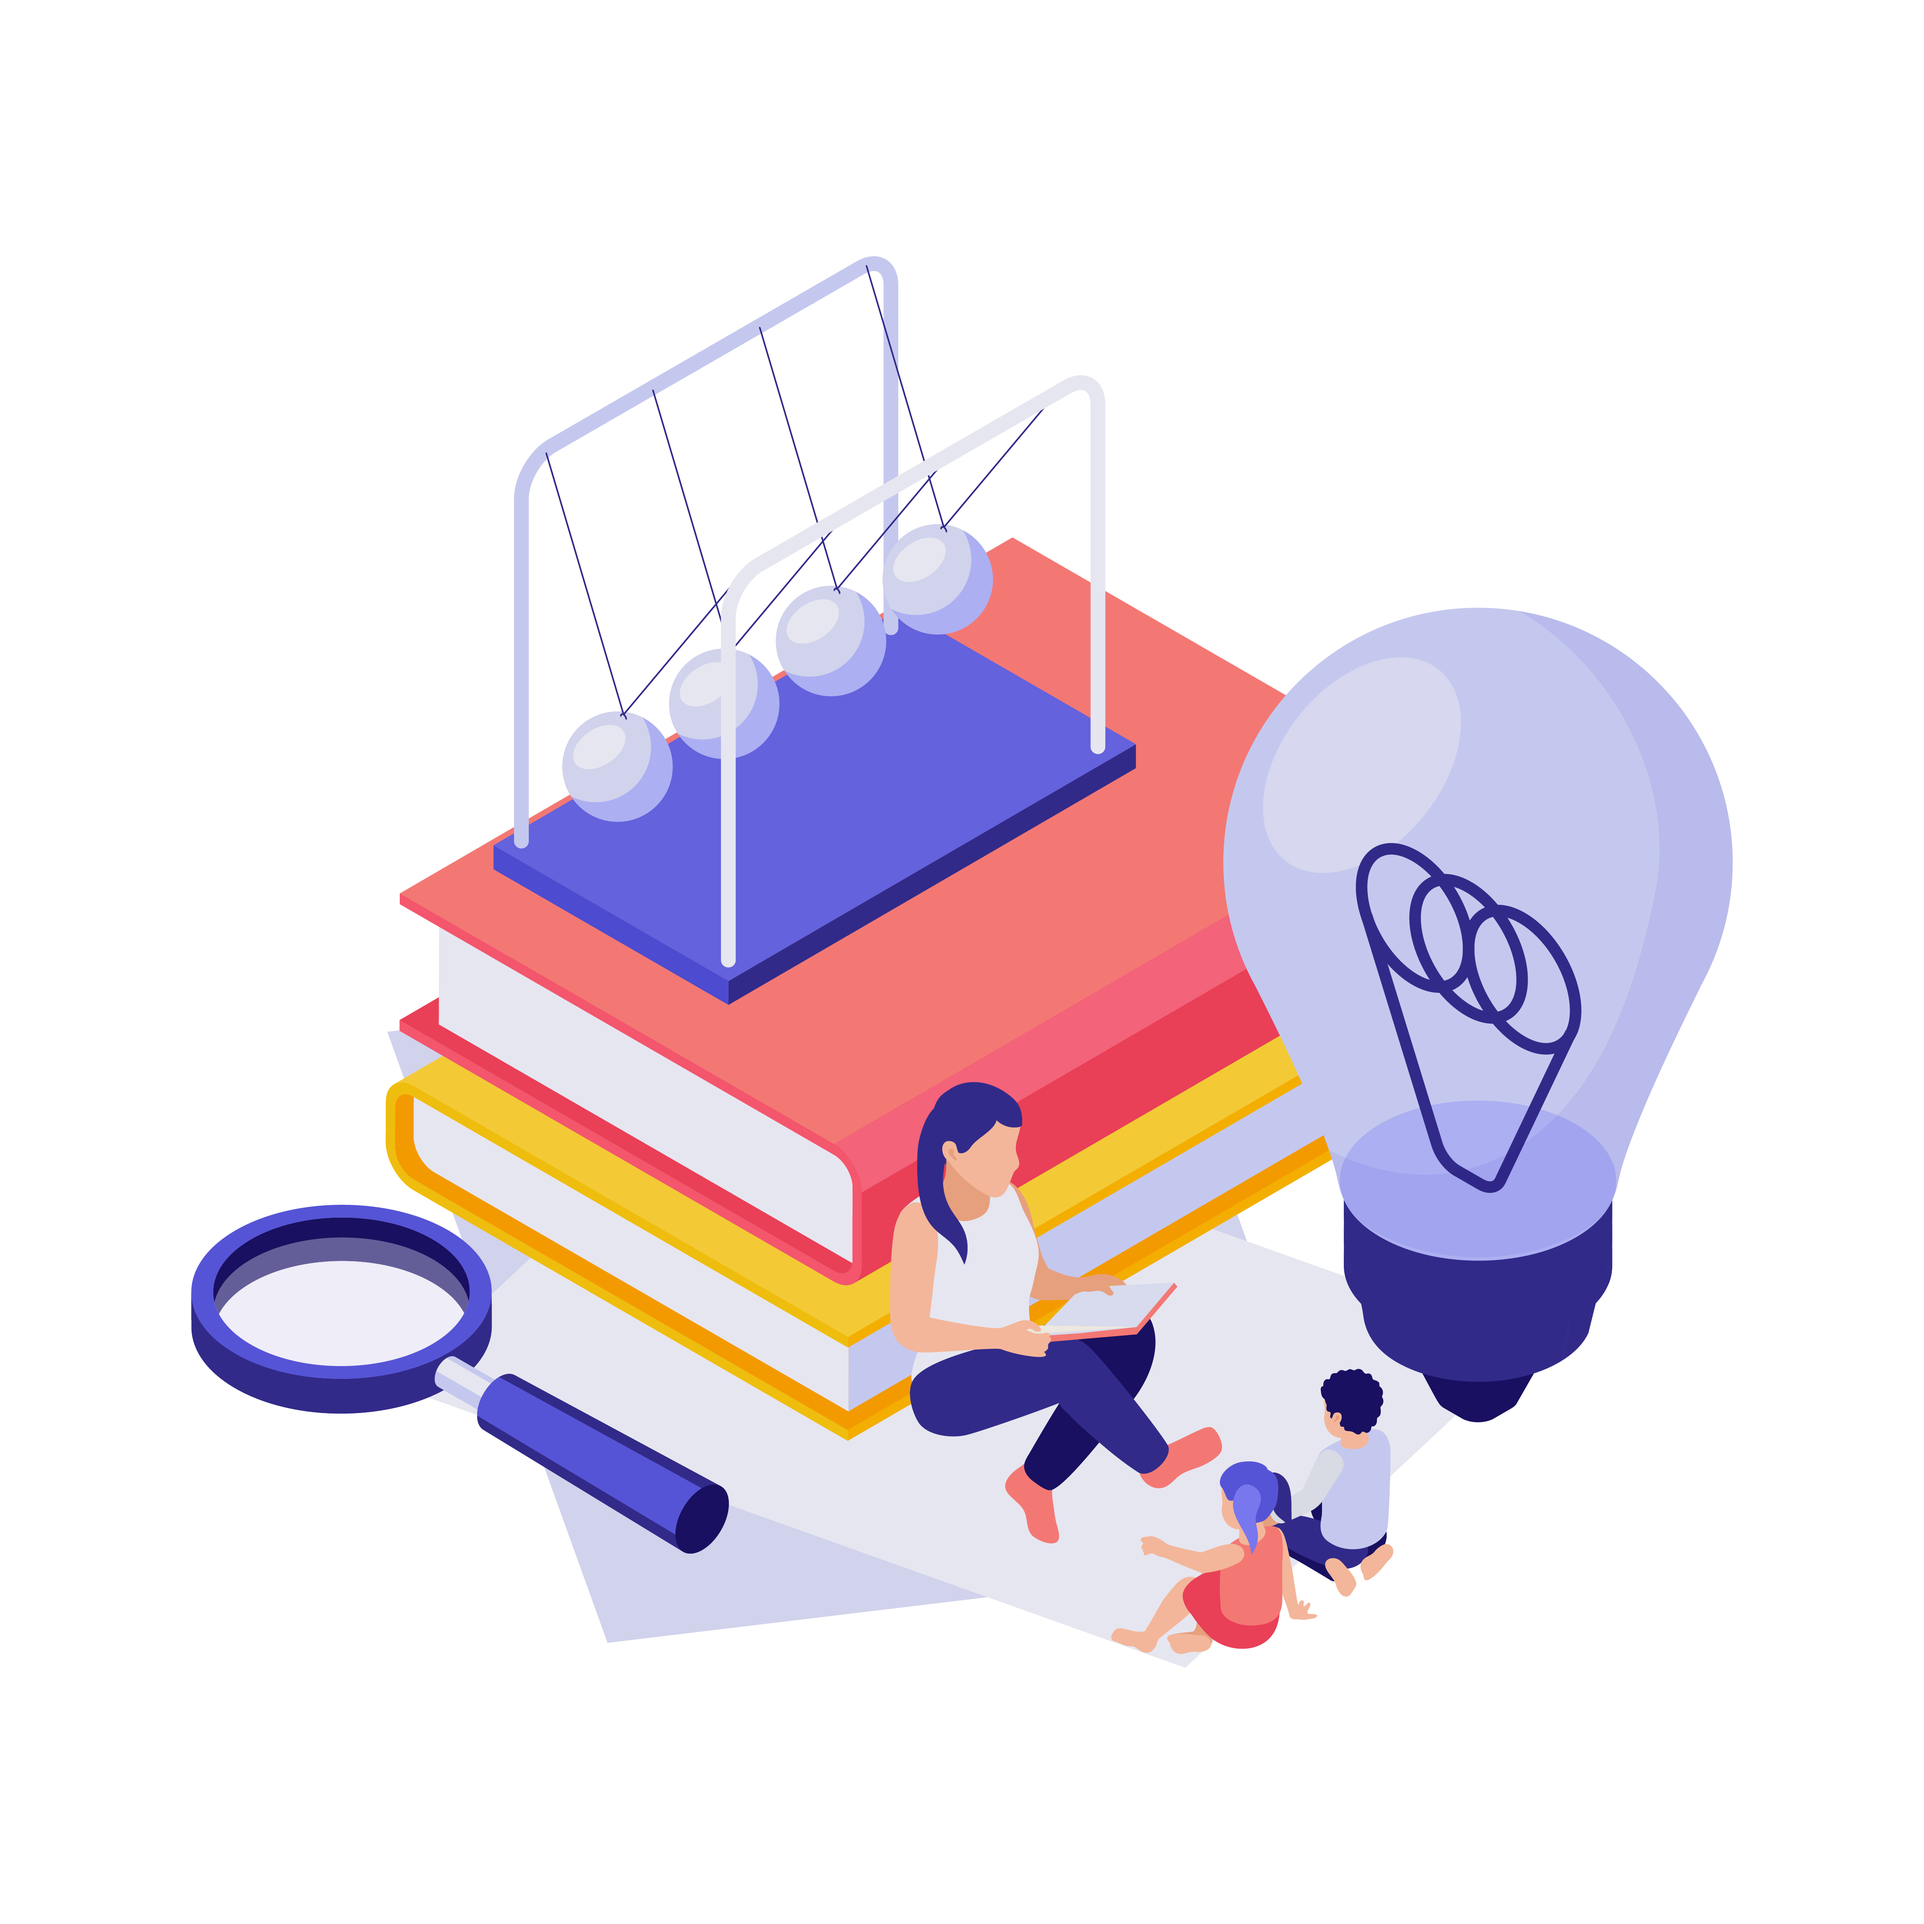
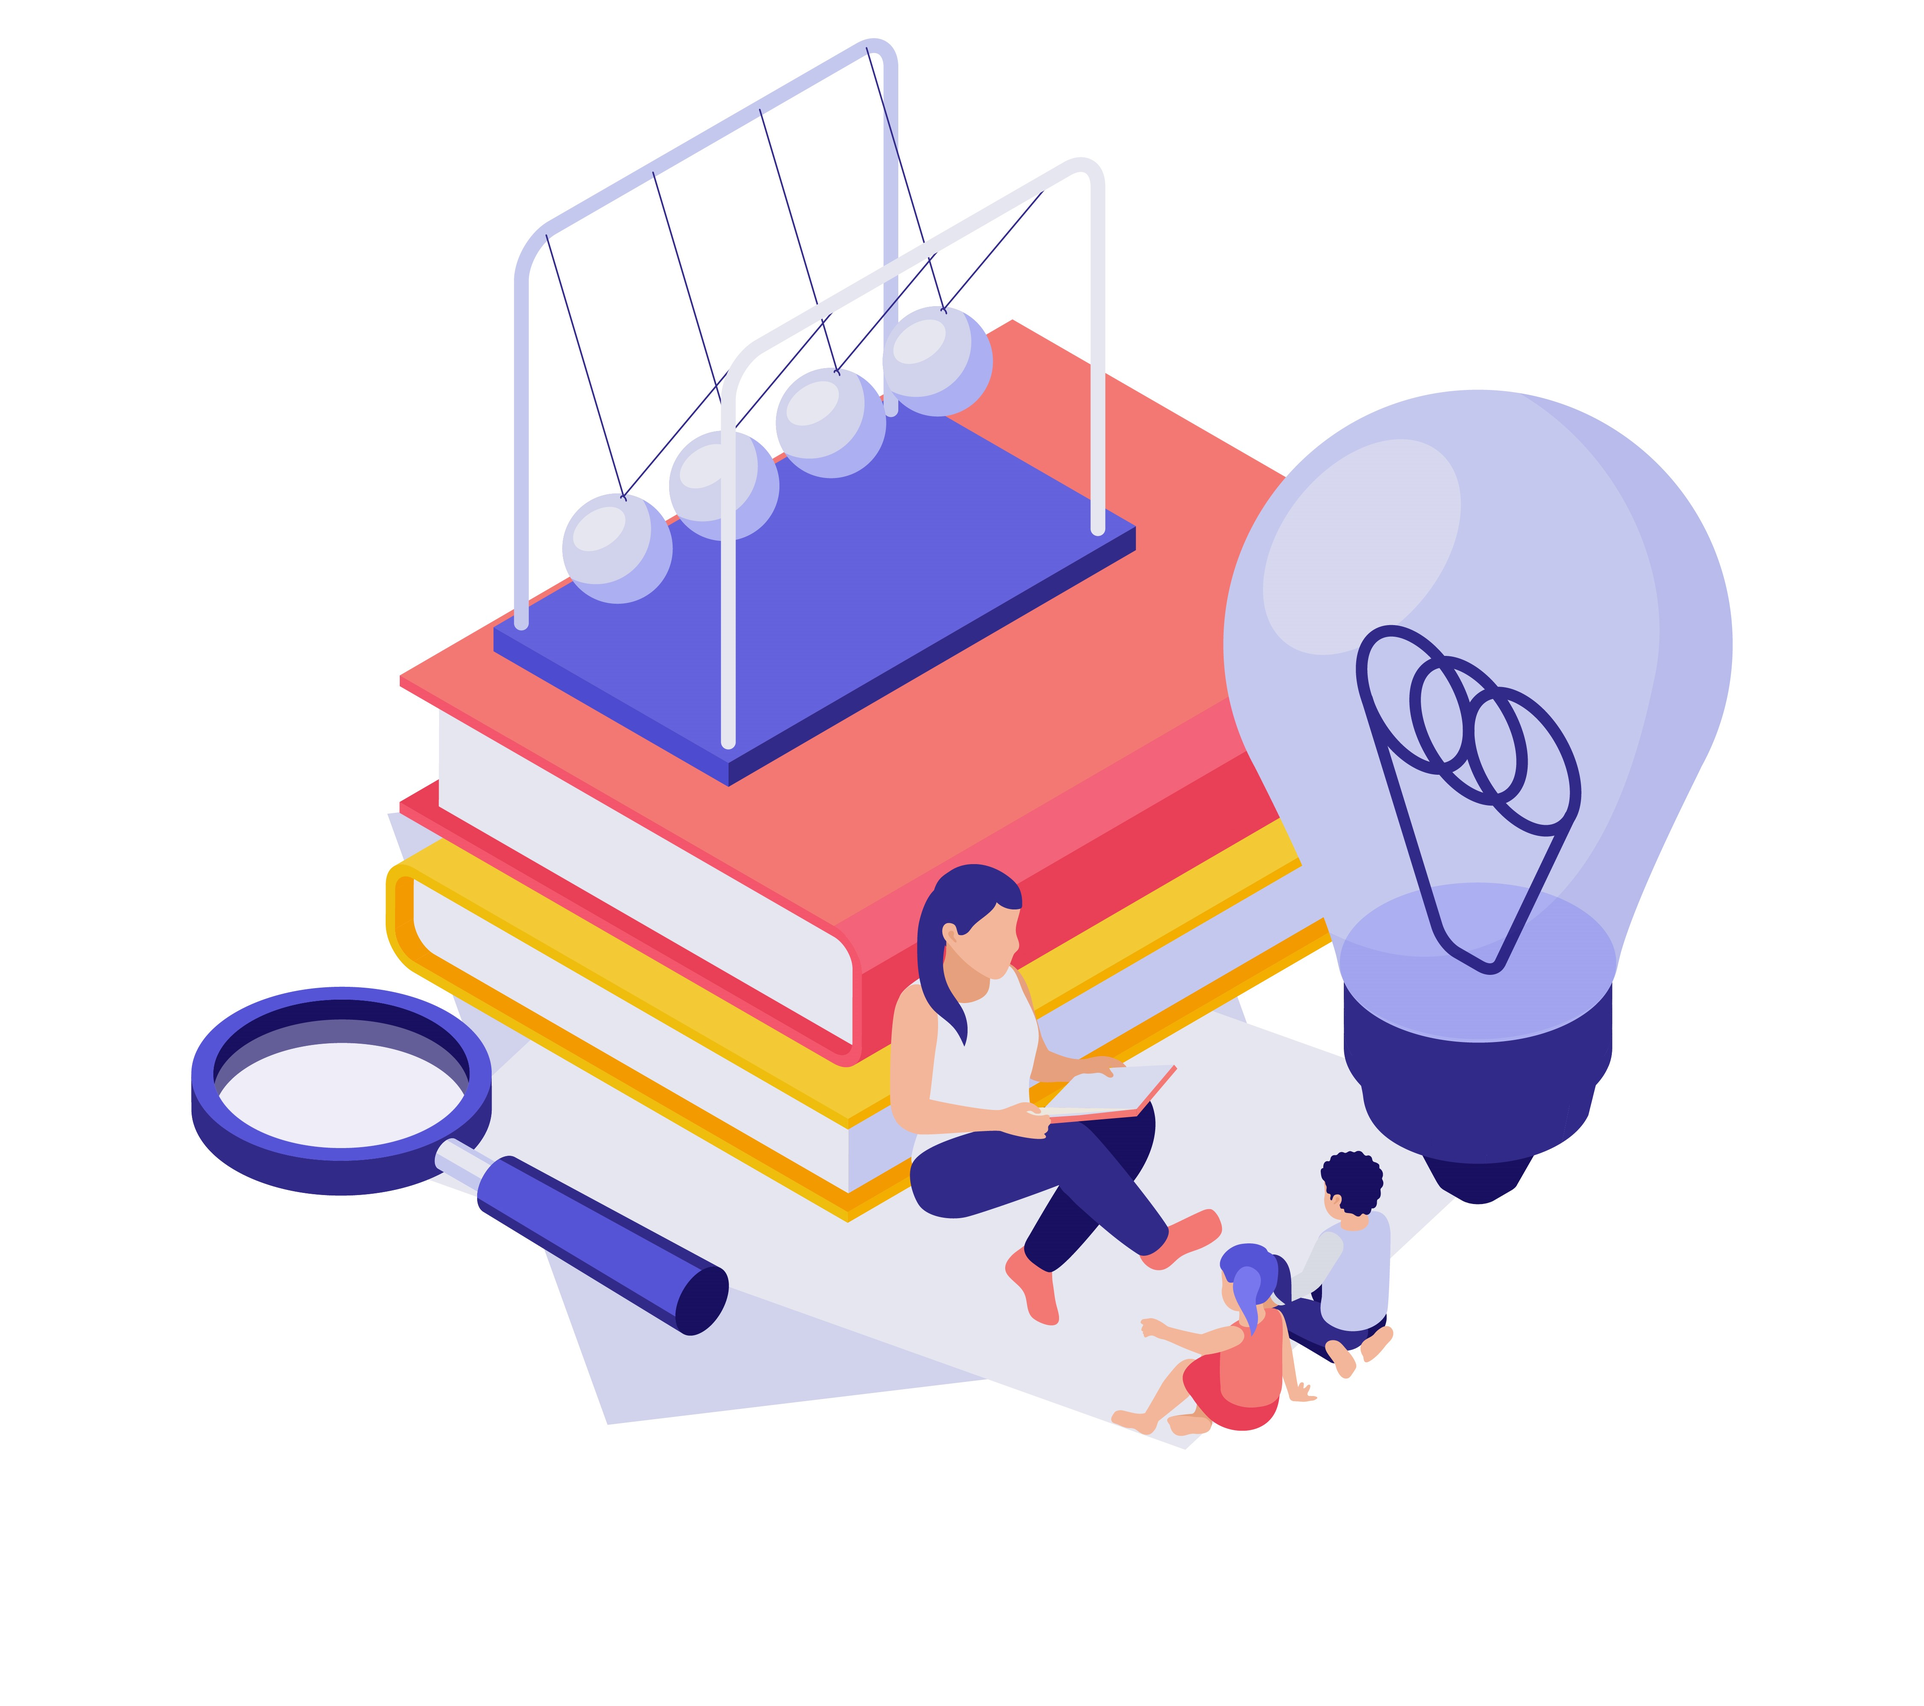
one more book and some cosmetic changes

Changed region(s): [[0.0933, 0.0, 0.9022, 0.8702], [0.2489, 0.0932, 0.3422, 0.2486], [0.3422, 0.0622, 0.4044, 0.0932]]

diff --git a/front_end/src/data/books.js b/front_end/src/data/books.js
@@ -1,5 +1,6 @@
 import interestingTimesPoster from '../posters/interesting-times.jpg';
 import mortPoster from '../posters/mort.jpg';
+import winnetouPoster from '../posters/winnetou.jpg';
 
 const books = [
     {
@@ -10,7 +11,7 @@ const books = [
       isbn: '0575058005',
       publishing_year: 1995,
       language: 3,
-      print_length: 236,
+      print_length: 353,
       poster: interestingTimesPoster,
     },
     {
@@ -24,6 +25,17 @@ const books = [
         print_length: 136,
         poster: mortPoster,
     },
+    {
+      title: 'Winnetou',
+      author: 'Karl May',
+      genre: 2,
+      age_recommendation: 12,
+      isbn: '0575000000',
+      publishing_year: 1892,
+      language: 2,
+      print_length: 294,
+      poster: winnetouPoster,
+  },
 ];
 
 export default books;

diff --git a/front_end/src/components/Navbar.js b/front_end/src/components/Navbar.js
@@ -10,7 +10,7 @@ const NavBar = () => {
         <div className="App">
             <Navbar collapseOnSelect expand="lg" bg="dark" variant="dark">
                 <Link to="/home">
-                    <Navbar.Brand href="#home">Library</Navbar.Brand>
+                    <Navbar.Brand href="#home">LibraryApp</Navbar.Brand>
                 </Link>
                 <Navbar.Toggle aria-controls="responsive-navbar-nav" />
                 <Navbar.Collapse id="responsive-navbar-nav">

diff --git a/front_end/src/components/Login.js b/front_end/src/components/Login.js
@@ -5,7 +5,7 @@ const Login = () => {
     <div className="App">
       <Row className="landing">
         <Col>
-          <Form style={{width:"70%", marginLeft:"10%", marginTop:"30%"}}>
+          <Form style={{width:"70%", marginLeft:"10%", marginTop:"27%"}}>
             <Form.Group controlId="formBasicUsername">
               <Form.Label>Username</Form.Label>
               <Form.Control placeholder="Enter username" />

diff --git a/front_end/public/index.html b/front_end/public/index.html
@@ -24,7 +24,7 @@
       work correctly both with client-side routing and a non-root public URL.
       Learn how to configure a non-root public URL by running `npm run build`.
     -->
-    <title>Library App</title>
+    <title>LibraryApp</title>
   </head>
   <body>
     <noscript>You need to enable JavaScript to run this app.</noscript>

diff --git a/front_end/src/App.css b/front_end/src/App.css
@@ -24,7 +24,7 @@
 }
 
 .navbar .navbar-brand {
-  padding: 0.75rem 0;
+  padding: 0.70rem 0;
   display: block;
   text-decoration: none !important;
 }
